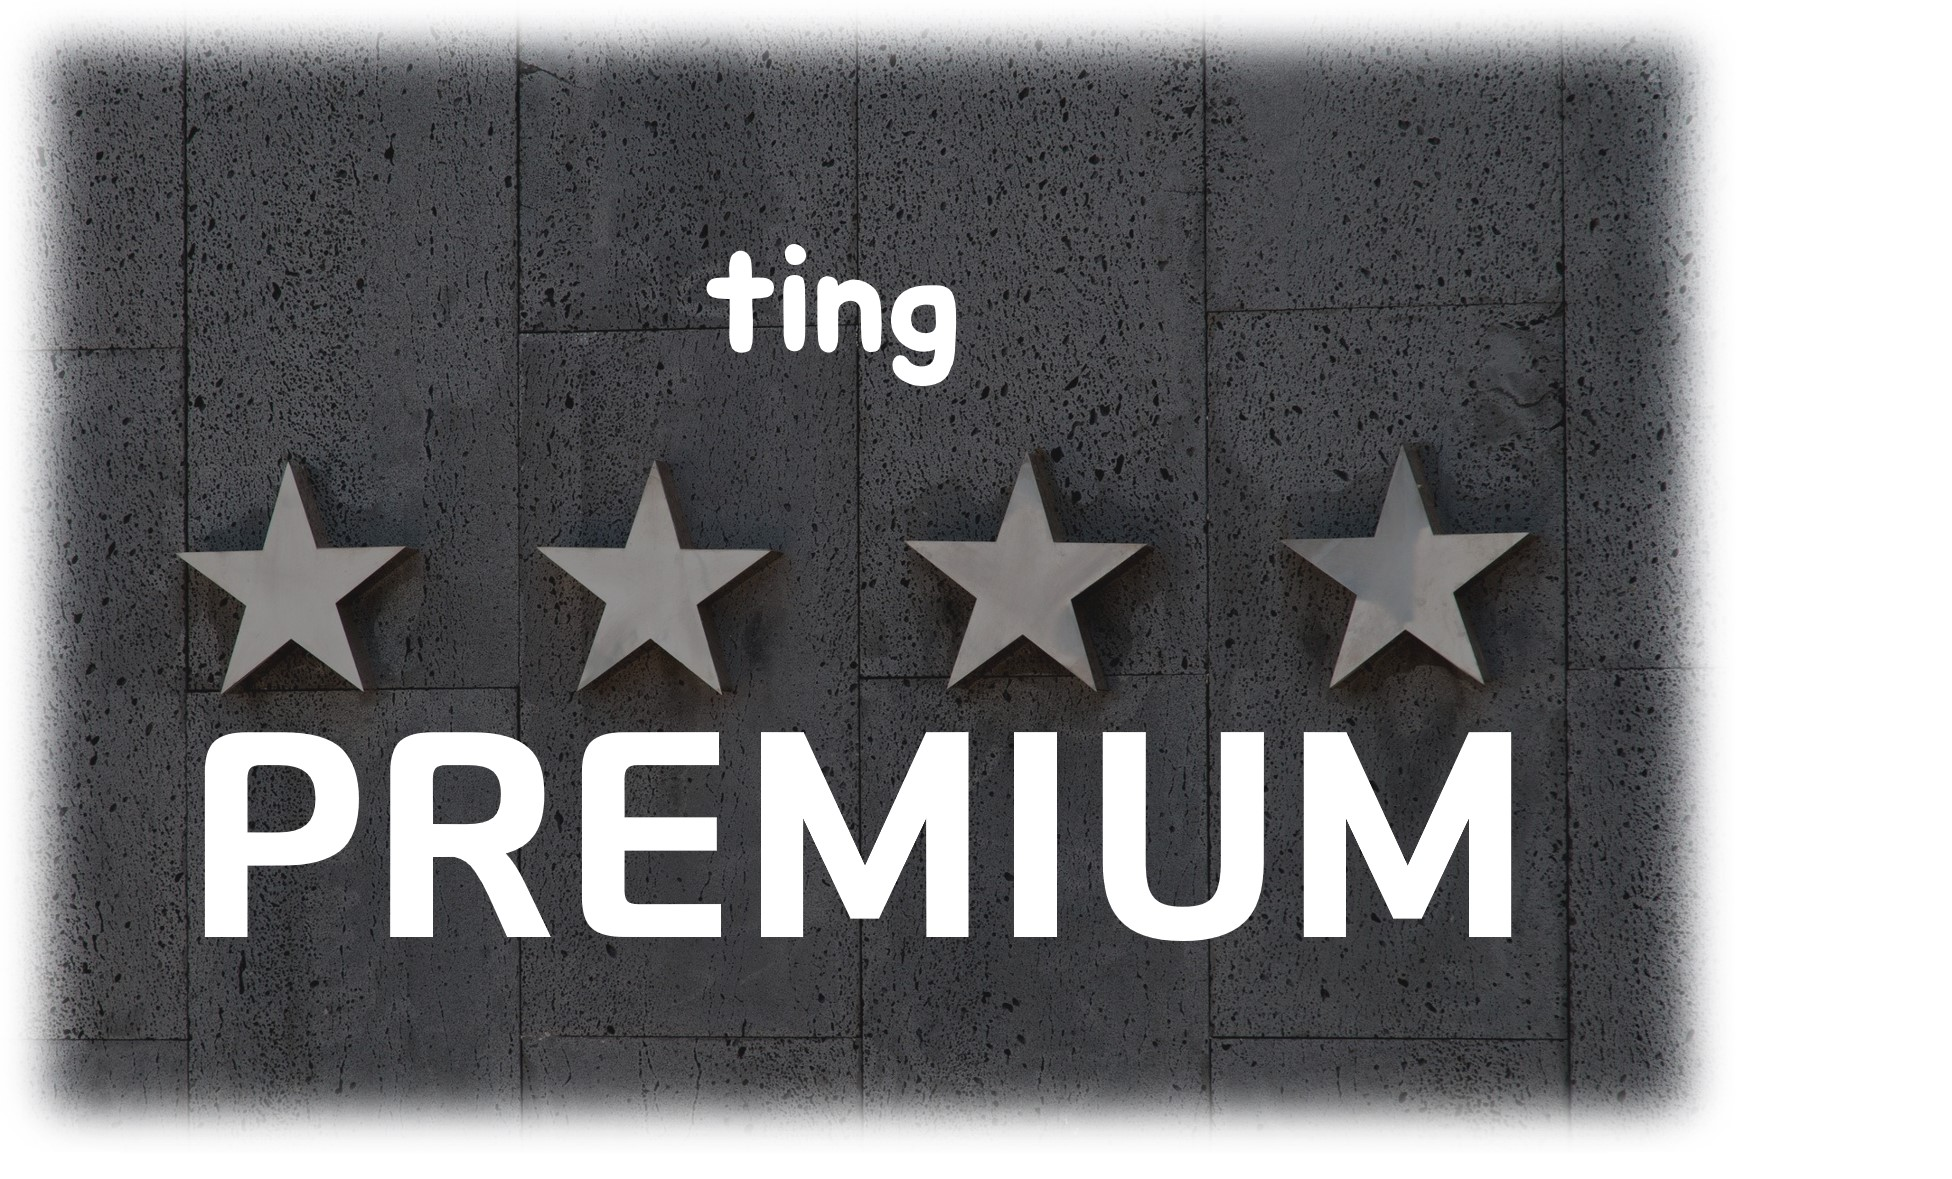
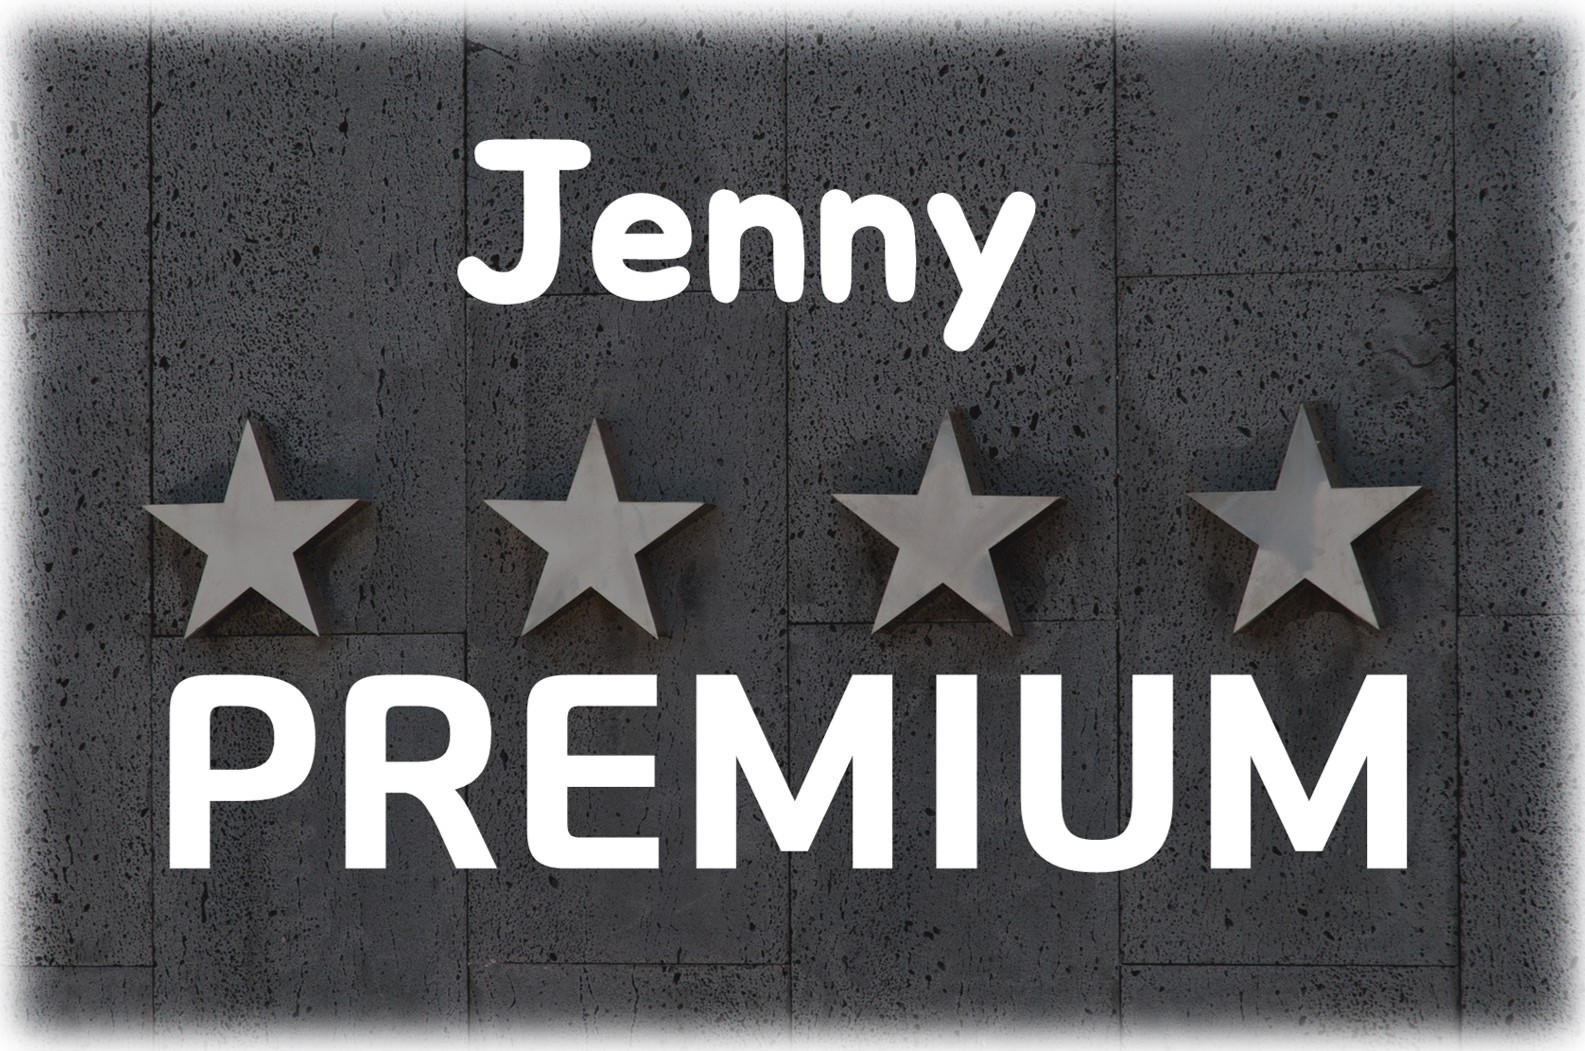
All UI setting

diff --git a/src/main/webapp/resources/css/style.css b/src/main/webapp/resources/css/style.css
@@ -40,7 +40,7 @@ a {
   transition: 0.5s;
 }
 a:hover, a:active, a:focus {
-  color: #D877F1;
+  color: #DA6FF5;
   outline: none;
 }
 
@@ -50,24 +50,24 @@ p {
 
 h1, h2, h3, h4, h5, h6 {
   color: #8d08ae;
-  /* font-family: "Source Sans Pro", Arial, sans-serif; */
+  /* font-family: "Source Sans Pro", Arial, sans-serif; */	
   font-family:  'Jua', sans-serif;
   font-weight: 400;
   margin: 0 0 30px 0;
 }
 
 ::-webkit-selection {
-  color: #D877F1;
+  color: #DA6FF5;
   background: #f9f6f0;
 }
 
 ::-moz-selection {
-  color: #D877F1;
+  color: #DA6FF5;
   background: #f9f6f0;
 }
 
 ::selection {
-  color: #D877F1;
+  color: #DA6FF5;
   background: #f9f6f0;
 }
 

diff --git a/src/main/webapp/resources/css/chat.css b/src/main/webapp/resources/css/chat.css
@@ -5,9 +5,9 @@
 	       background: -webkit-linear-gradient(to right, #91EAE4, #86A8E7, #7F7FD5);
 	        background: linear-gradient(to right, #91EAE4, #86A8E7, #7F7FD5); */
 	        
-	        background: #F894C3;
-	       background: -webkit-linear-gradient(to right, #E391EA, #FC9BC3, #EB0B45);
-	        background: linear-gradient(to right, #E391EA, #FC9BC3, #EB0B455);
+	        background: #FC9BC3;
+	       background: -webkit-linear-gradient(to right, #E5AFF3, #FC9BC3, #8D08AE);
+	        background: linear-gradient(to right, #E5AFF3, #FC9BC3, #8D08AE);
 		}
 
 		.chat{

diff --git a/src/main/webapp/resources/sass/style.scss b/src/main/webapp/resources/sass/style.scss
@@ -16,7 +16,7 @@ $brand-darker: #444;
 $brand-gray: #ccc;
 $brand-lighter: #e9e9e9;
 $brand-body-color: #818892;
-$brand-selection-color: #f9f6f0;
+$brand-selection-color: #DA6FF5;
 $brand-overlay-color: #3b3d40;
 $brand-bg-color: $brand-white;
 

diff --git a/src/main/java/com/ting/controller/EMAIL_Controller.java b/src/main/java/com/ting/controller/EMAIL_Controller.java
@@ -54,8 +54,8 @@ public class EMAIL_Controller {
 				
 				messageHelper.setFrom("jennymaster2020@gmail.com");
 				messageHelper.setTo(vo.getEmail());
-				messageHelper.setSubject( "비밀번호 찾기 인증 이메일 입니다."); 
-				messageHelper.setText("\n - ting 비밀번호 찾기 - \n\n" + "비밀번호 찾기 인증번호는 [ " + cnum + " ] 입니다. "); 
+				messageHelper.setSubject( "[Jenny] 비밀번호 찾기 인증 이메일 입니다."); 
+				messageHelper.setText("\n - Jenny 비밀번호 찾기 - \n\n" + "비밀번호 찾기 인증번호는 [ " + cnum + " ] 입니다. "); 
 
 				mailSender.send(message);
 
